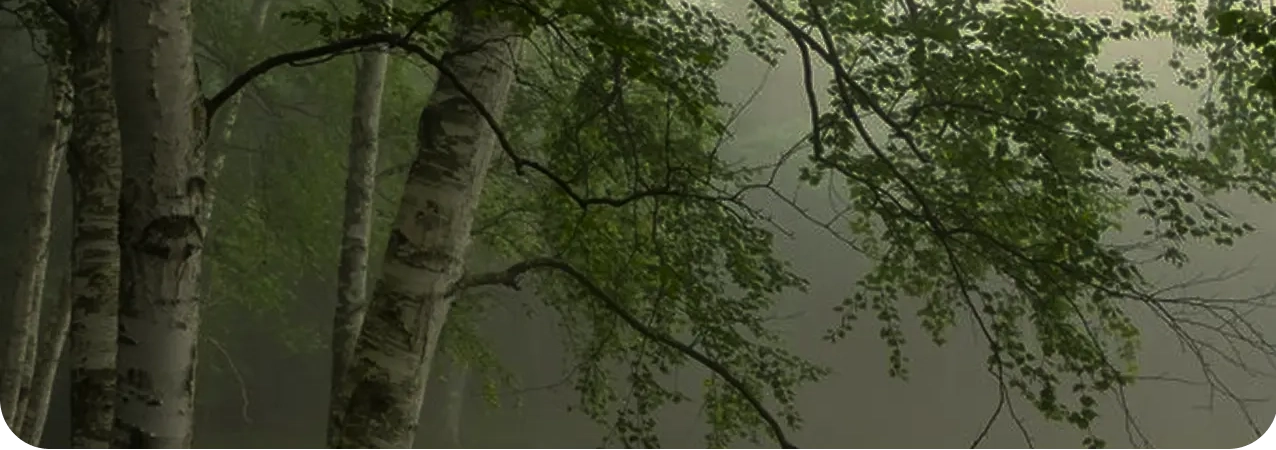
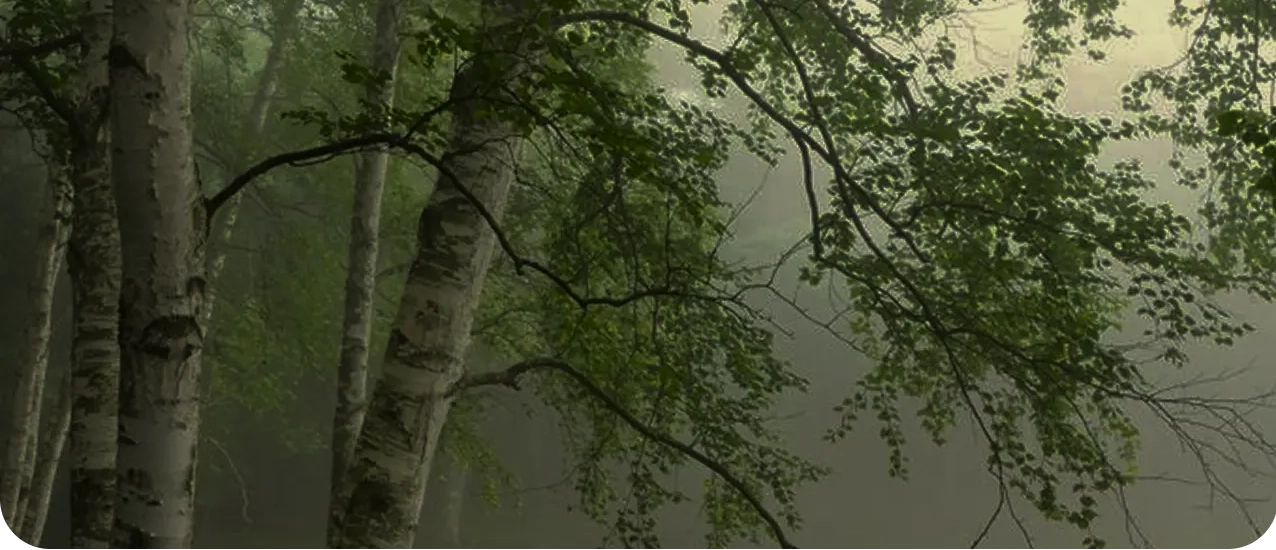
huhdone

diff --git a/src/style/style.css b/src/style/style.css
@@ -161,7 +161,7 @@ input[type="text"] {
   position: relative;
   background-position: center;
   width: 100%;
-  padding-top: 35%;
+  padding-top: 43%;
   background-repeat: no-repeat;
 }
 
@@ -175,7 +175,7 @@ input[type="text"] {
 .iconic {
   background-image: url("/icon.svg");
   position: absolute;
-  top: 10%;
+  top: 20%;
   left: 30%;
   width: 40%;
   aspect-ratio: 1/1;
